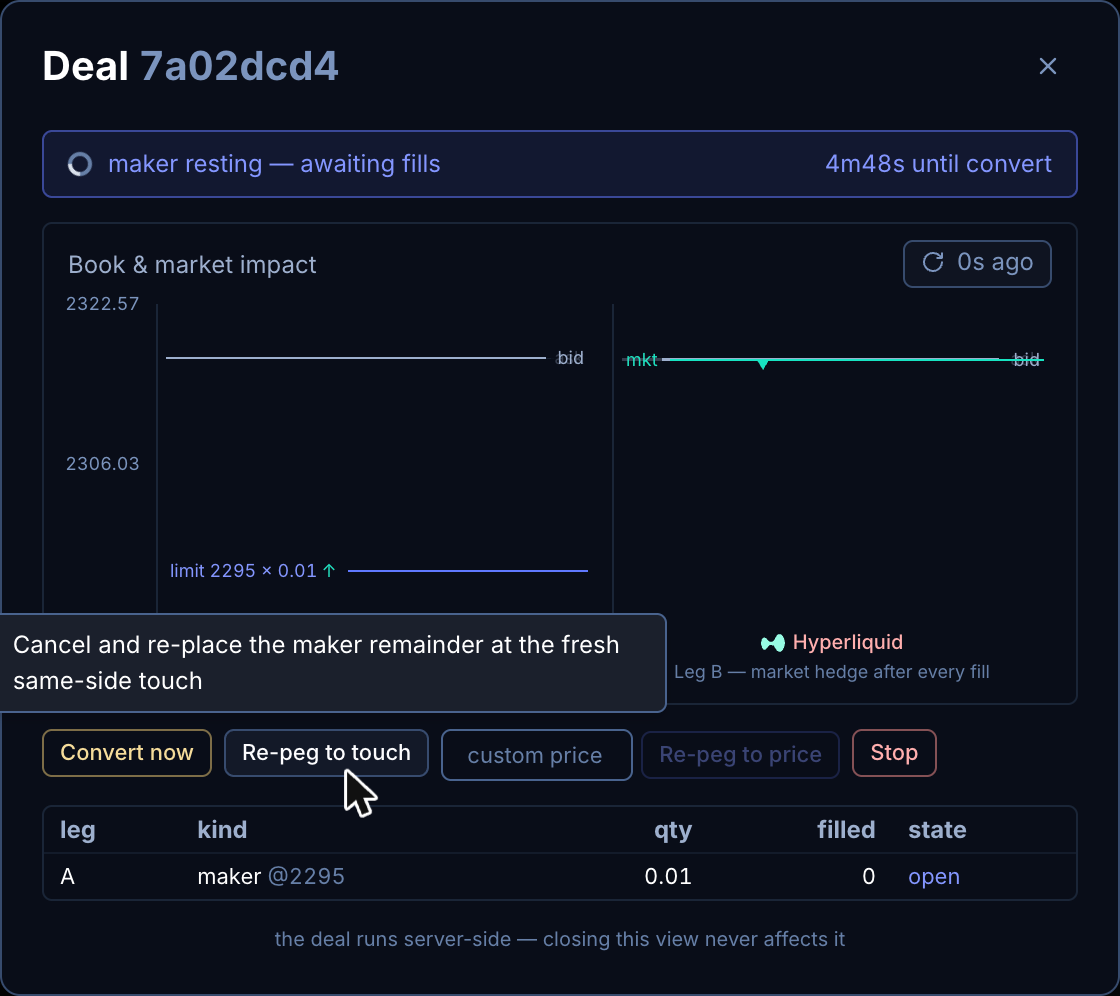
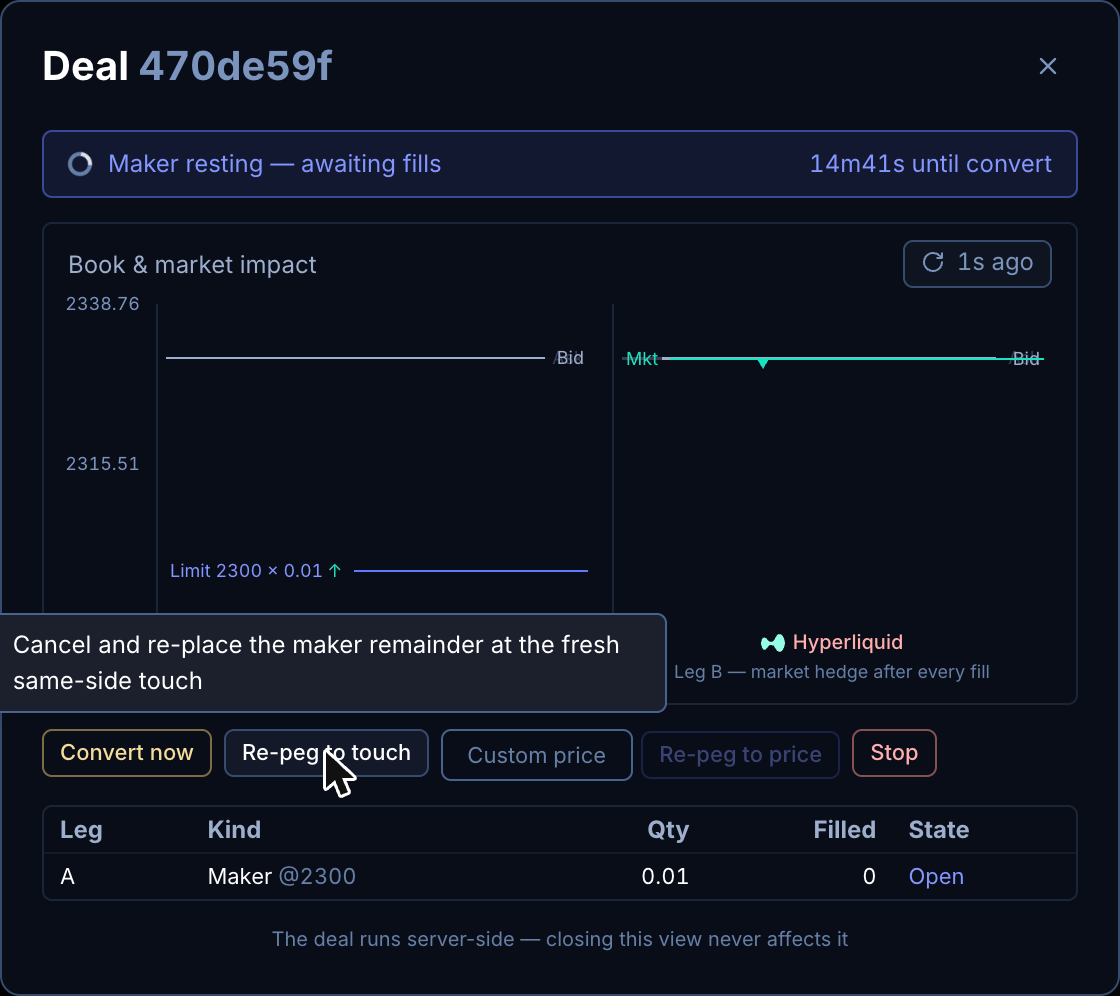
Deal window and book chart labels in sentence case
Status line, buttons, the custom price box, column headers, order kind and
state, report labels and chart tags all start with a capital. The guide's
deal window image is retaken live on the Gate test account.

diff --git a/web/src/trade/DealModal.test.tsx b/web/src/trade/DealModal.test.tsx
@@ -52,7 +52,7 @@ describe('DealModal', () => {
         projection: { aFilled: '0.02', bFilled: '0.02' },
       }),
     );
-    expect(await screen.findByText(/maker resting/)).toBeInTheDocument();
+    expect(await screen.findByText(/Maker resting/)).toBeInTheDocument();
     expect(screen.getByText(/until convert/)).toBeInTheDocument();
     expect(screen.getByRole('button', { name: 'Convert now' })).toBeEnabled();
     expect(screen.getByRole('button', { name: 'Re-peg to touch' })).toBeEnabled();
@@ -119,7 +119,7 @@ describe('DealModal', () => {
         },
       }),
     );
-    await screen.findByText(/maker resting/);
+    await screen.findByText(/Maker resting/);
     // The maker (GATE, BUY → long column) carries the resting limit at the
     // LIVE order's price; the hedge column shows only its book.
     await waitFor(() => expect(document.querySelector('[data-price-graph]')).not.toBeNull());
@@ -132,7 +132,7 @@ describe('DealModal', () => {
     // to spell them out).
     expect(
       document.querySelector('[data-leg="long"] [data-mark="limit"]')?.textContent,
-    ).toContain('limit 2497 × 0.05');
+    ).toContain('Limit 2497 × 0.05');
     expect(document.querySelector('[data-leg="short"] [data-mark="limit"]')).toBeNull();
     expect(document.querySelector('[data-leg="short"] [data-mark="bid"]')?.getAttribute('data-price')).toBe('2499');
     // The hedge column carries its market-order simulation — the market hedge
@@ -322,8 +322,8 @@ describe('DealModal', () => {
         projection: { aFilled: '0.05', bFilled: '0.02', unhedged: '0.03' },
       }),
     );
-    expect(await screen.findByText(/HALTED — operator needed — hedge failed 3x/)).toBeInTheDocument();
-    expect(screen.getByText(/unhedged/)).toBeInTheDocument();
+    expect(await screen.findByText(/Halted — operator needed — hedge failed 3x/)).toBeInTheDocument();
+    expect(screen.getByText(/Unhedged/)).toBeInTheDocument();
     expect(screen.getByRole('button', { name: /Resume/ })).toBeEnabled();
     expect(screen.queryByRole('button', { name: 'Convert now' })).not.toBeInTheDocument();
   });
@@ -339,8 +339,8 @@ describe('DealModal', () => {
       }),
     );
     expect(await screen.findByText('Report')).toBeInTheDocument();
-    expect(screen.getByText(/unhedged dust/)).toBeInTheDocument();
-    expect(screen.getByText('stopped')).toBeInTheDocument();
+    expect(screen.getByText(/Unhedged dust/)).toBeInTheDocument();
+    expect(screen.getByText('Stopped')).toBeInTheDocument();
     expect(screen.queryByRole('button', { name: 'Stop' })).not.toBeInTheDocument();
     // An ordinary stop must NOT wear the crossing-limit explanation.
     expect(screen.queryByText(/through the market/)).not.toBeInTheDocument();
@@ -389,18 +389,18 @@ describe('DealModal', () => {
     // Scoped to the report: the orders table below it prints kinds too.
     const rep = within(await screen.findByTestId('deal-report'));
     // Each leg reads: role · direction · venue · @ price.
-    expect(rep.getByText('maker')).toBeInTheDocument();
-    expect(rep.getByText('taker')).toBeInTheDocument();
-    expect(rep.getByText('limit — the filled resting leg')).toBeInTheDocument();
-    expect(rep.getByText('long')).toBeInTheDocument(); // the BUY (maker) leg
-    expect(rep.getByText('short')).toBeInTheDocument(); // the SELL (taker) leg
+    expect(rep.getByText('Maker')).toBeInTheDocument();
+    expect(rep.getByText('Taker')).toBeInTheDocument();
+    expect(rep.getByText('Limit — the filled resting leg')).toBeInTheDocument();
+    expect(rep.getByText('Long')).toBeInTheDocument(); // the BUY (maker) leg
+    expect(rep.getByText('Short')).toBeInTheDocument(); // the SELL (taker) leg
     expect(rep.getByText('Gate')).toBeInTheDocument(); // maker venue
     expect(rep.getByText('Binance')).toBeInTheDocument(); // taker venue
     expect(rep.getByText('2500')).toBeInTheDocument(); // long/maker avg fill
     expect(rep.getByText('2503.75')).toBeInTheDocument(); // short/taker avg fill
     expect(rep.getByText(/^\+3\.75$/)).toBeInTheDocument(); // signed price basis
     expect(rep.getByText(/^\(\+0\.150%\)$/)).toBeInTheDocument(); // +0.150%
-    expect(rep.getByText('favorable')).toBeInTheDocument();
+    expect(rep.getByText('Favorable')).toBeInTheDocument();
   });
 
   /** "2 market orders" sends both legs as takers and nothing rests. The report
@@ -421,10 +421,10 @@ describe('DealModal', () => {
       }),
     );
     const rep = within(await screen.findByTestId('deal-report'));
-    expect(rep.queryByText('maker')).not.toBeInTheDocument();
+    expect(rep.queryByText('Maker')).not.toBeInTheDocument();
     expect(rep.queryByText(/the filled resting leg/)).not.toBeInTheDocument();
-    expect(rep.getAllByText('taker')).toHaveLength(2);
-    expect(rep.getByText('market order')).toBeInTheDocument();
+    expect(rep.getAllByText('Taker')).toHaveLength(2);
+    expect(rep.getByText('Market order')).toBeInTheDocument();
     // The basis is a difference of averages — right in either mode.
     expect(rep.getByText(/^\+3\.75$/)).toBeInTheDocument();
   });
@@ -440,7 +440,7 @@ describe('DealModal', () => {
       }),
     );
     expect(await screen.findByText('Report')).toBeInTheDocument();
-    expect(screen.queryByText('maker')).not.toBeInTheDocument();
-    expect(screen.queryByText('slippage')).not.toBeInTheDocument();
+    expect(screen.queryByText('Maker')).not.toBeInTheDocument();
+    expect(screen.queryByText('Slippage')).not.toBeInTheDocument();
   });
 });

diff --git a/web/src/trade/DealModal.tsx b/web/src/trade/DealModal.tsx
@@ -39,6 +39,11 @@ function venueReasonText(raw: string | null): string | null {
   }
 }
 
+/** Server reasons are lowercase so they can follow a "—"; the report shows one alone. */
+function upperFirst(s: string): string {
+  return s.charAt(0).toUpperCase() + s.slice(1);
+}
+
 const ORDER_STATE_TONE: Record<DealOrder['state'], string> = {
   PENDING: 'text-amber-300',
   OPEN: 'text-cyan-300',
@@ -441,7 +446,7 @@ export function DealModal({ dealId, onClose }: { dealId: string; onClose: () => 
                       />
                     </span>
                   )}
-                  <span className="text-ink-500">{localizeServerText(report.reason)}</span>
+                  <span className="text-ink-500">{upperFirst(localizeServerText(report.reason))}</span>
                 </div>
                 {slip && pair.b && (
                   <div className="mt-1.5 flex flex-col gap-0.5 border-t border-ink-800 pt-1.5">
